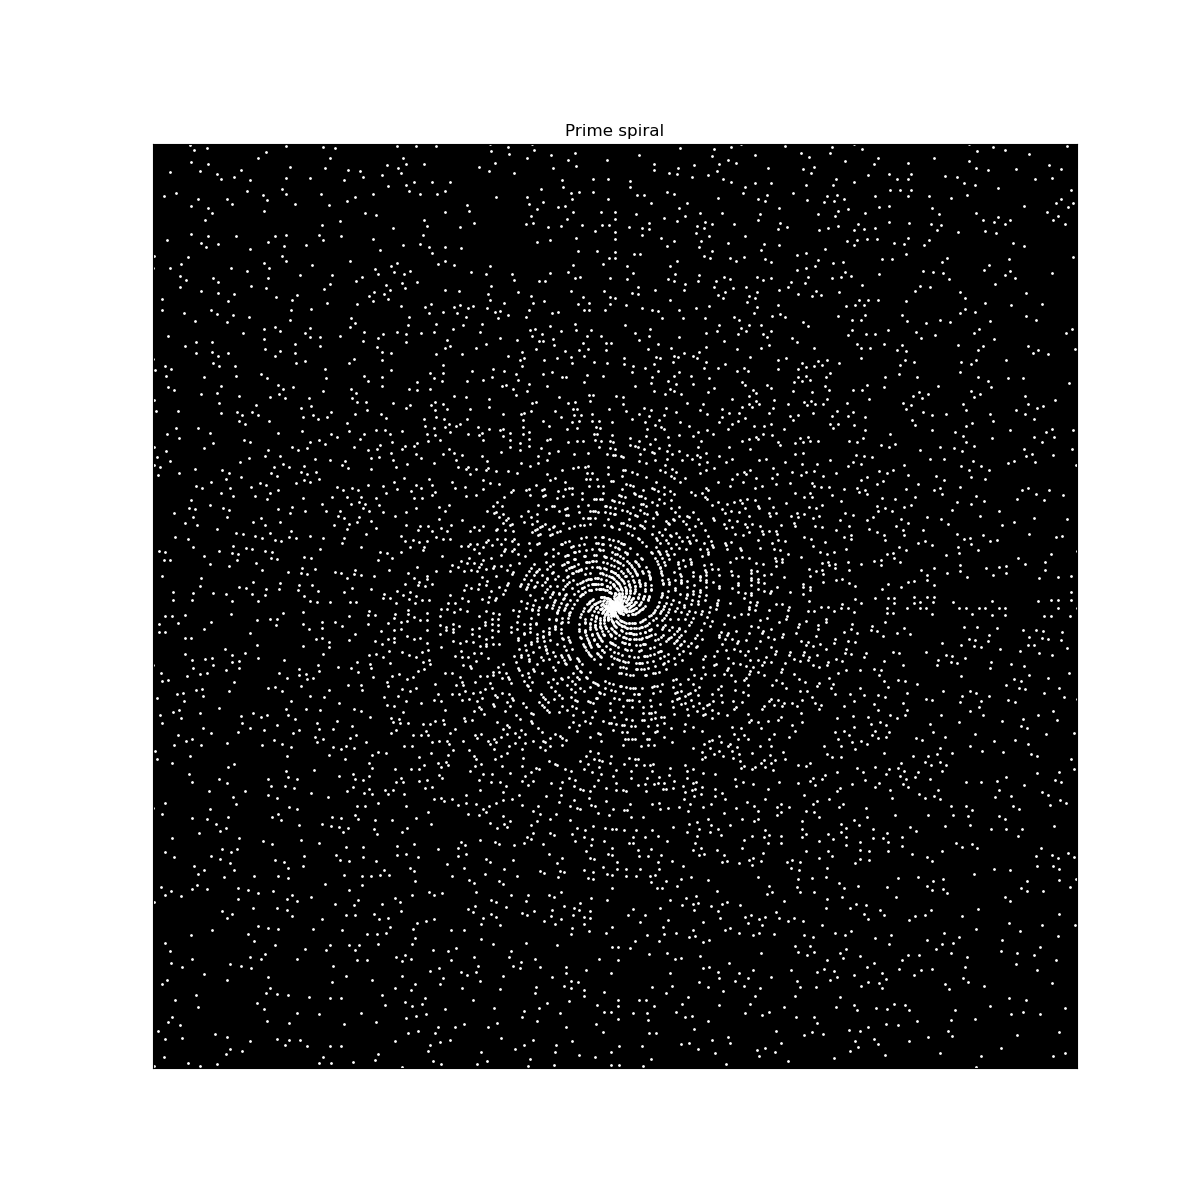
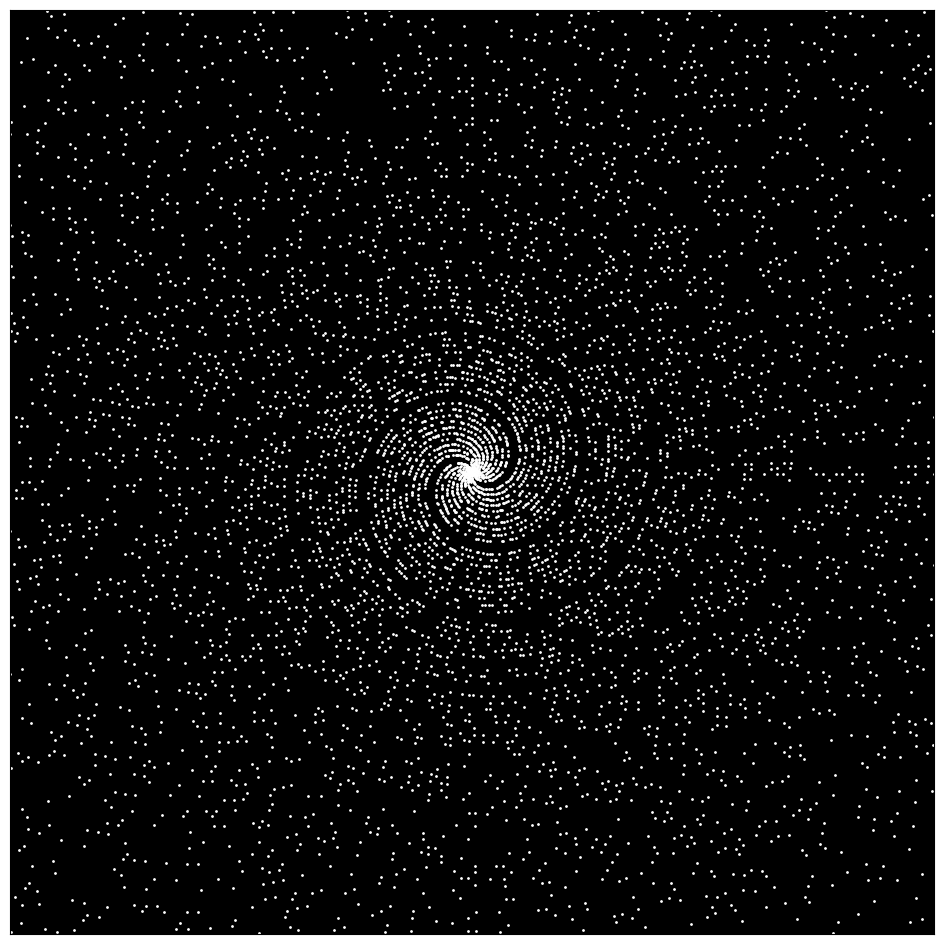
updating Github page

diff --git a/Maths_visualizations/Prime_spirals/prime_spiral_2.py b/Maths_visualizations/Prime_spirals/prime_spiral_2.py
@@ -50,6 +50,5 @@ ax.set_xlim((-50000,50000))
 ax.set_ylim((-50000,50000))
 ax.get_xaxis().set_visible(False)
 ax.get_yaxis().set_visible(False)
-ax.set_title('Prime spiral')
-plt.savefig('prime_spiral.png')
+plt.savefig('prime_spiral.png',bbox_inches='tight')
 plt.show()
